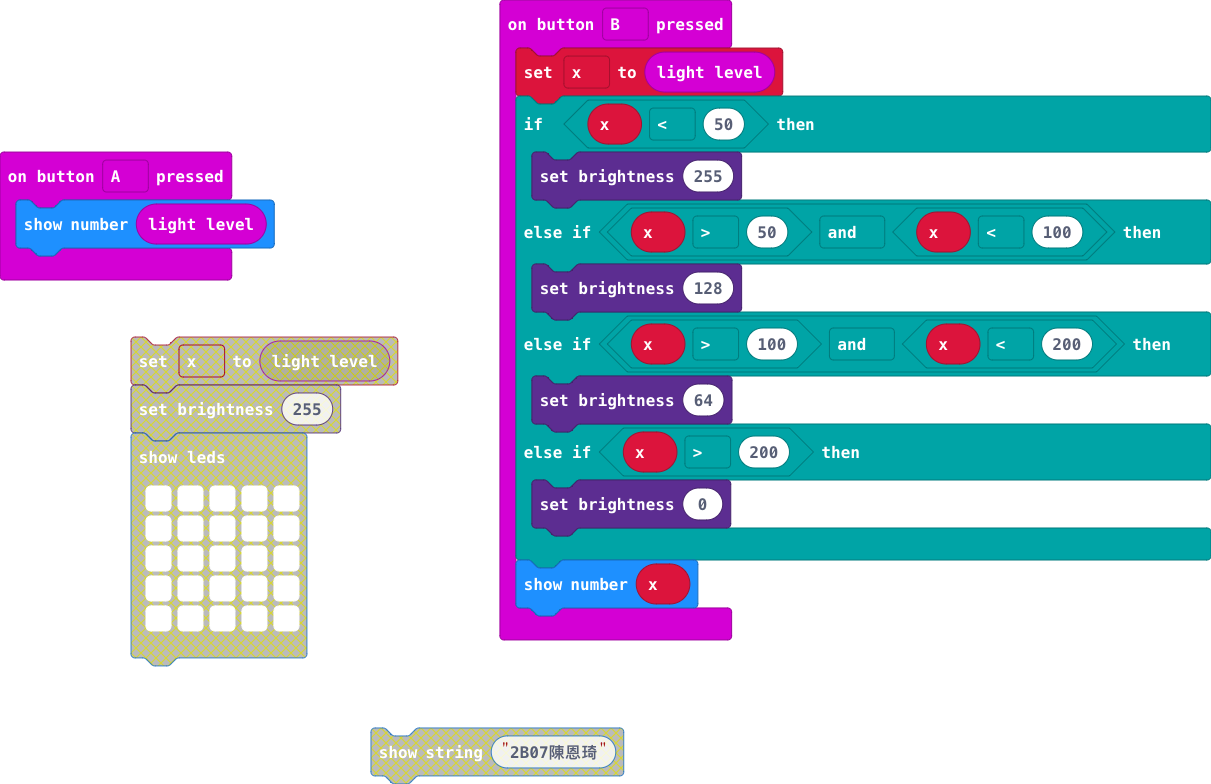
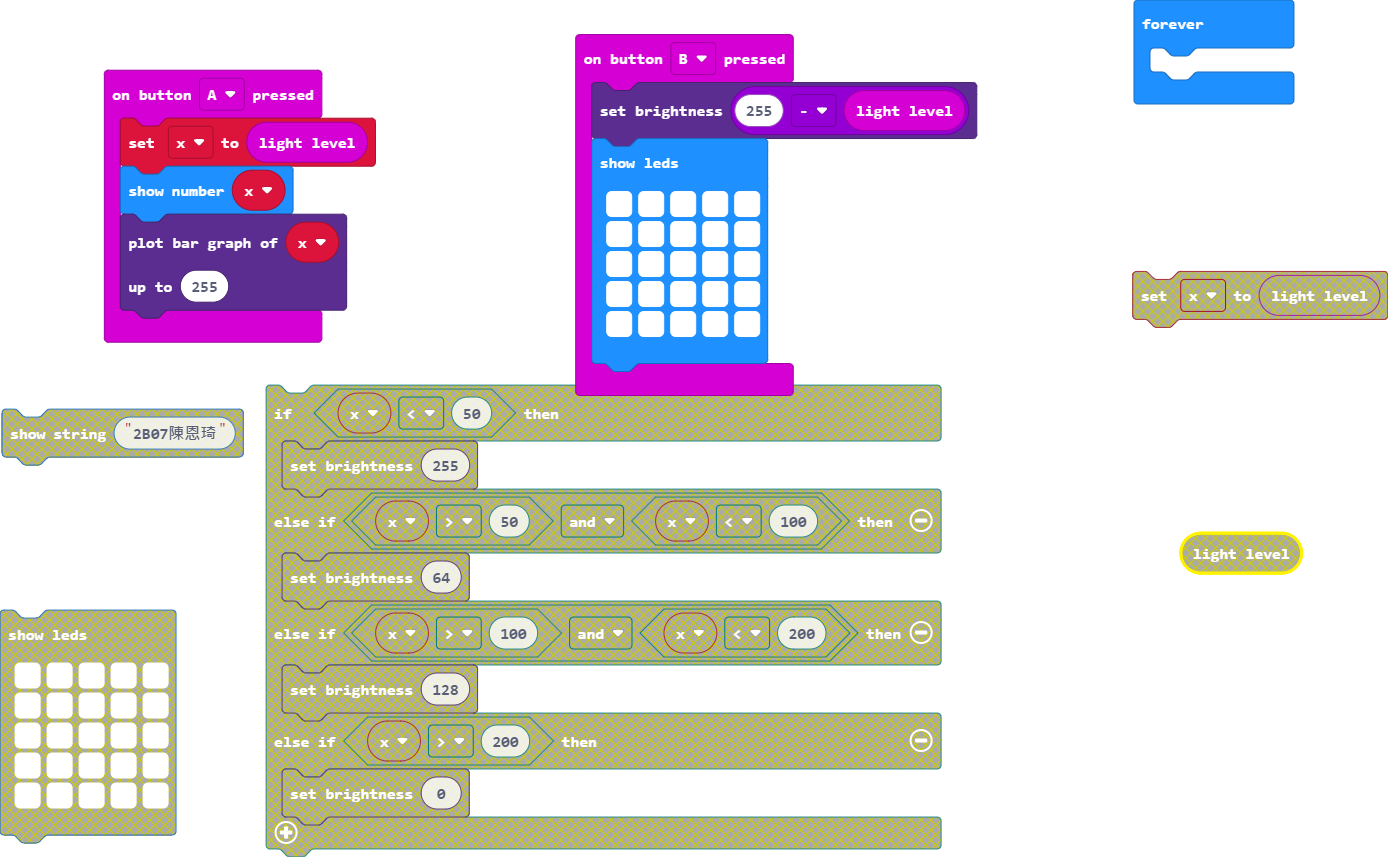
Update main.blocks, main.ts

diff --git a/main.ts b/main.ts
@@ -1,17 +1,22 @@
 let x = 0
 input.onButtonPressed(Button.A, function () {
-    basic.showNumber(input.lightLevel())
+    x = input.lightLevel()
+    basic.showNumber(x)
+    led.plotBarGraph(
+    x,
+    255
+    )
 })
 input.onButtonPressed(Button.B, function () {
-    x = input.lightLevel()
-    if (x < 50) {
-        led.setBrightness(255)
-    } else if (x > 50 && x < 100) {
-        led.setBrightness(128)
-    } else if (x > 100 && x < 200) {
-        led.setBrightness(64)
-    } else if (x > 200) {
-        led.setBrightness(0)
-    }
-    basic.showNumber(x)
+    led.setBrightness(255 - input.lightLevel())
+    basic.showLeds(`
+        # # # # #
+        # # # # #
+        # # # # #
+        # # # # #
+        # # # # #
+        `)
+})
+basic.forever(function () {
+	
 })
